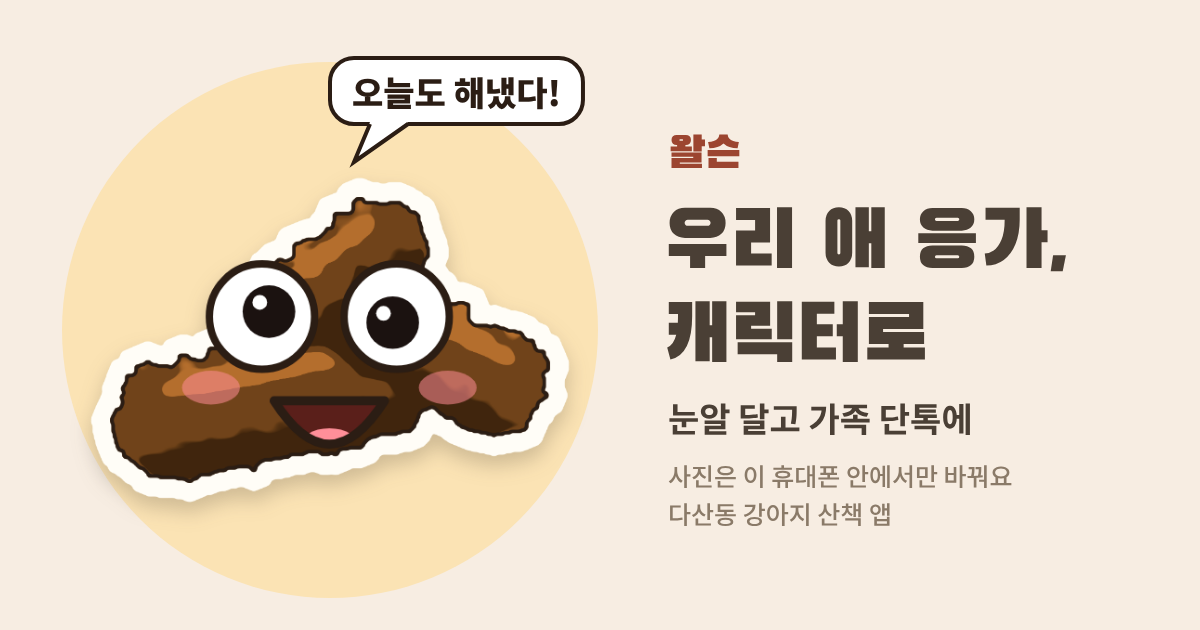
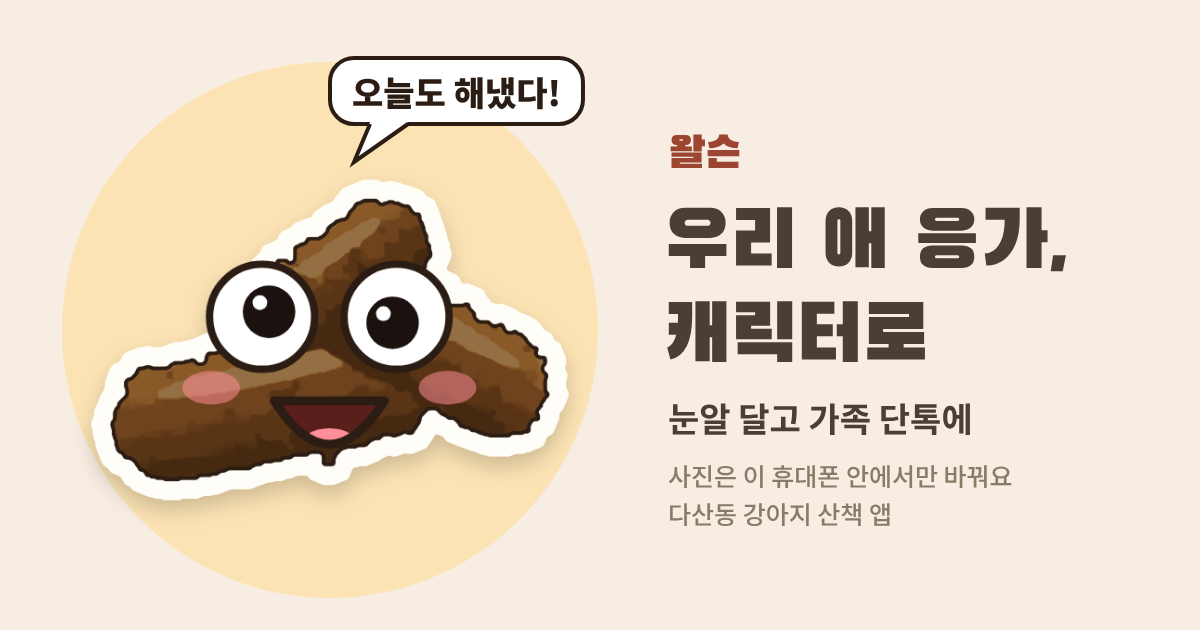
응가 캐릭터: 색을 사진 그대로 따라 그리기 — 응가 안의 Lab 색 묶음(최대 5색)으로 칠함
- 평균색 하나 + 명암 세 단계(밝기 제한) 대신, 응가 안에서 뽑은 색 묶음을 그 자리 색 그대로 칠함
  (채도만 6%, 밝기는 그대로). 묶음 경계는 섞어서 매끈하게, 색이 많이 다른 곳에만 가는 선
- 응가 본체 = 가운데에 가장 많은 색, 나머지는 바닥보다 응가 색에 가까우면 응가 — 빨간 줄만 남고 갈색 본체를 버리던 것 고침
- 뭉개기 6·4·2 → 4·3·1(가는 줄이 덜 넓어짐), 지어낸 사진 7가지로 색 차이 ΔE 0.5~8.8
- 카톡 미리보기 그림 다시 만들고 ?v=2, 기획 문서·PROJECT_CONTEXT 반영

Claude-Session: https://claude.ai/code/session_01D364GF868k3HTded8WiX4b

diff --git a/poop-toon.html b/poop-toon.html
@@ -12,7 +12,7 @@
 <meta property="og:title" content="왈슨 · 우리 애 응가 캐릭터 만들기">
 <meta property="og:description" content="응가 사진에 눈알과 입을 달아 가족 단톡에. 사진은 이 휴대폰 안에서만 바꿔요.">
 <meta property="og:url" content="https://johnsongarage.co.kr/walson/poop-toon.html">
-<meta property="og:image" content="https://johnsongarage.co.kr/walson/og/poop-toon-og.png?v=1">
+<meta property="og:image" content="https://johnsongarage.co.kr/walson/og/poop-toon-og.png?v=2">
 <meta property="og:image:width" content="1200">
 <meta property="og:image:height" content="630">
 <meta property="og:image:alt" content="눈알과 입이 달린 응가 그림 — 왈슨 응가 캐릭터">
@@ -27,8 +27,10 @@
      → Claude 검토 → "응 시험 페이지부터 만들어줘"). 앱과 따로 있는 시험용 — 견맘 몇 명이 실제로 가족방에 보내는지 보려고.
      11/13 응가 일기 원칙(POOP_DIARY.md)을 지킨다: 사진은 남기지 않는다(그림만), 산책 중엔 휴대폰 기본 카메라로 한 장만,
      점수는 앱이 매기지 않는다(표정·상태는 보호자가 고름), 위치는 쓰지 않는다.
-     그림으로 바꾸기는 이 휴대폰 안에서만 한다 — 생성 AI·서버 없음. 붓칠처럼 평평하게(쿠와하라 필터) → 색 몇 개로 줄이기(k-평균)
-     → 굵은 테두리, 배경은 동그라미 가장자리에 많은 색을 배경으로 보고 지워 스티커처럼(못 나누면 동그란 스티커로).
+     그림으로 바꾸기는 이 휴대폰 안에서만 한다 — 생성 AI·서버 없음. 목표(11/16 가르시아): 응가 모양대로, 색도 사진 그대로.
+     붓칠처럼 평평하게(쿠와하라 필터) → 바닥/응가 나누기(가장자리에 많은 색 = 바닥, 가운데에 가장 많은 색 = 응가 본체, 나머지는 색이 가까운 쪽)
+     → 응가 안의 색을 Lab 좌표에서 최대 5묶음으로 뽑아 그 색 그대로 칠함(빨간 줄·흰 점액·노란·검은 변도 남음) → 굵은 테두리 + 흰 스티커 테두리
+     (못 나누면 동그란 스티커로 바닥까지 그림으로).
      통계: 화면 열기(page_view)와 보내기 횟수(share_click what=poop_toon / 내려받기 poop_toon_save)만 — 사진·그림은 보내지 않는다. */
   :root {
     --bg: #f7ede2; --panel: #fffaf3; --panel-border: #e6d6c1;
@@ -393,42 +395,103 @@
   });
 
   // ════════ 그림으로 바꾸기(이 휴대폰 안에서만) ════════
+  // 목표(11/16 가르시아 "똥의 모양대로 그림이 생성되고 색깔도 따라 만들어지는 걸 원해"):
+  // 모양은 사진에서 응가만 떼어 낸 그대로, 색은 응가 안에서 뽑은 색 묶음(최대 5색, 사진 색 그대로)으로 칠한다.
+  // 빨간 줄·흰 점액·노란 부분처럼 다른 색이 섞여 있으면 그 색도 남는다(건강 기록에서 색이 중요해서).
   var art0 = {};   // 배경 나누기가 색을 비교할 때 쓰는 팔레트
+  // 뭉개는 정도: 쿠와하라 두 번의 반경과 색 칸을 한 번 더 뭉개는 반경(작업 픽셀). 크면 매끈하지만 가는 줄이 넓어진다
+  // 11/16 색 따라 그리기 때 6·4·2 → 4·3·1로 줄임: 빨간 줄이 사진보다 1.6배 두꺼워지던 것이 1.4배로, 흰 점액 비율은 사진과 같게(16.0% / 16.1%)
+  var SMOOTH = { k1: 4, k2: 3, blur: 1 };
   function toonify(rgba) {
     var W = WORK, N = W * W;
     // ① 붓칠처럼 평평하게: 쿠와하라 필터 두 번(가장자리는 살리고 질감은 지운다)
     var rgb = new Float32Array(N * 3);
     for (var p = 0; p < N; p++) { rgb[p * 3] = rgba[p * 4]; rgb[p * 3 + 1] = rgba[p * 4 + 1]; rgb[p * 3 + 2] = rgba[p * 4 + 2]; }
-    rgb = kuwahara(rgb, W, W, 6);
-    rgb = kuwahara(rgb, W, W, 4);
-    // ② 색 몇 개로 줄이기
+    var sm = window.__toonSmooth || SMOOTH;   // (시험에서만 바꿔 본다)
+    rgb = kuwahara(rgb, W, W, sm.k1);
+    rgb = kuwahara(rgb, W, W, sm.k2);
+    // ② 바닥과 응가를 나누려고 색 여섯 묶음(동그라미 안)
     var K = 6, centers = kmeans(rgb, W, K);
     var labels = new Uint8Array(N);
     for (p = 0; p < N; p++) labels[p] = nearest(centers, K, rgb[p * 3], rgb[p * 3 + 1], rgb[p * 3 + 2]);
     labels = modeFilter(modeFilter(labels, W, W, K), W, W, K);
     var palette = [];
-    for (var k = 0; k < K; k++) palette.push(cutify(centers[k * 3], centers[k * 3 + 1], centers[k * 3 + 2]));
-    // ③ 배경 나누기 — 동그라미 가장자리에 많은 색 = 바닥
+    for (var k = 0; k < K; k++) palette.push([centers[k * 3], centers[k * 3 + 1], centers[k * 3 + 2]]);
     art0.palette = palette;
+    // ③ 배경 나누기 — 동그라미 가장자리에 많은 색 = 바닥
     var cut = cutBackground(labels, W, K);
-    var res = { W: W, labels: labels, palette: palette, K: K, mask: cut.mask, cutOk: cut.ok, box: cut.box };
-    if (cut.ok) celShade(res, rgb);
+    // ④ 칠할 색: 부드럽게 한 사진 색을 Lab(사람 눈에 고르게 보이는 색 좌표)으로 바꿔 두고, 응가 안의 색 묶음을 뽑는다
+    var labF = labField(rgb, W, sm.blur);
+    var res = { W: W, labels: labels, palette: palette, K: K, mask: cut.mask, cutOk: cut.ok, box: cut.box, labF: labF, allPal: null };
+    if (cut.ok) res.fgPal = labPalette(labF, W, cut.mask, 5);
     return res;
   }
-  // ④ 배경을 지운 응가는 명암 세 단계로 다시 칠한다(그린 그림처럼) — 색은 응가의 평균색, 밝고 어두운 자리는 사진 그대로
-  function celShade(res, rgb) {
-    var W = res.W, N = W * W, m = res.mask, n = 0, sr = 0, sg = 0, sb = 0, lums = [], lum = new Float32Array(N), p;
-    for (p = 0; p < N; p++) {
-      var l = 0.299 * rgb[p * 3] + 0.587 * rgb[p * 3 + 1] + 0.114 * rgb[p * 3 + 2]; lum[p] = l;
-      if (m[p]) { n++; sr += rgb[p * 3]; sg += rgb[p * 3 + 1]; sb += rgb[p * 3 + 2]; if (!(p % 3)) lums.push(l); }
+  // ── 색 좌표(sRGB ↔ Lab, D65) ──
+  var LIN = new Float32Array(256);
+  (function () { for (var i = 0; i < 256; i++) { var c = i / 255; LIN[i] = c <= 0.04045 ? c / 12.92 : Math.pow((c + 0.055) / 1.055, 2.4); } })();
+  function labf(t) { return t > 0.008856 ? Math.cbrt(t) : 7.787 * t + 16 / 116; }
+  function toLab(r, g, b, out, o) {
+    var R = LIN[r < 0 ? 0 : r > 255 ? 255 : Math.round(r)], G = LIN[g < 0 ? 0 : g > 255 ? 255 : Math.round(g)], B = LIN[b < 0 ? 0 : b > 255 ? 255 : Math.round(b)];
+    var fx = labf((R * 0.4124 + G * 0.3576 + B * 0.1805) / 0.95047), fy = labf(R * 0.2126 + G * 0.7152 + B * 0.0722), fz = labf((R * 0.0193 + G * 0.1192 + B * 0.9505) / 1.08883);
+    out[o] = 116 * fy - 16; out[o + 1] = 500 * (fx - fy); out[o + 2] = 200 * (fy - fz);
+  }
+  function fromLab(L, a, b) {
+    var fy = (L + 16) / 116, fx = fy + a / 500, fz = fy - b / 200;
+    function fi(t) { var t3 = t * t * t; return t3 > 0.008856 ? t3 : (t - 16 / 116) / 7.787; }
+    var X = fi(fx) * 0.95047, Y = fi(fy), Z = fi(fz) * 1.08883;
+    function g(c) { c = c <= 0.0031308 ? 12.92 * c : 1.055 * Math.pow(Math.max(0, c), 1 / 2.4) - 0.055; return Math.max(0, Math.min(255, c * 255)); }
+    return [g(X * 3.2406 - Y * 1.5372 - Z * 0.4986), g(-X * 0.9689 + Y * 1.8758 + Z * 0.0415), g(X * 0.0557 - Y * 0.2040 + Z * 1.0570)];
+  }
+  function de2(a, b) { var x = a[0] - b[0], y = a[1] - b[1], z = a[2] - b[2]; return x * x + y * y + z * z; }
+  // 쿠와하라 결과를 한 번 더 살짝 뭉개(색 경계가 매끈한 곡선이 되게) Lab으로 바꾼 칸
+  function labField(rgb, W, blur) {
+    var N = W * W, ch = [new Float32Array(N), new Float32Array(N), new Float32Array(N)], out = new Float32Array(N * 3), p, c;
+    for (p = 0; p < N; p++) for (c = 0; c < 3; c++) ch[c][p] = rgb[p * 3 + c];
+    if (blur > 0) for (c = 0; c < 3; c++) boxBlur(ch[c], W, blur);
+    for (p = 0; p < N; p++) toLab(ch[0][p], ch[1][p], ch[2][p], out, p * 3);
+    return out;
+  }
+  // 응가(mask) 또는 동그라미 안의 색을 최대 K묶음으로 — 사진 색 그대로. 아주 가까운 색(ΔE 7 안쪽)은 하나로 합친다
+  function labPalette(labF, W, mask, K) {
+    var N = W * W, R0 = W / 2, pts = [], p, k, s;
+    for (p = 0; p < N; p += 2) {
+      if (mask ? mask[p] : Math.hypot((p % W) + 0.5 - R0, ((p / W) | 0) + 0.5 - R0) < R0 * 0.97) pts.push(p);
     }
-    lums.sort(function (a, b) { return a - b; });
-    var t1 = lums[Math.floor(lums.length * 0.3)], t2 = lums[Math.floor(lums.length * 0.84)];
-    var hsl = toHsl(sr / n, sg / n, sb / n), h = hsl[0], sat = Math.max(0.38, Math.min(0.8, hsl[1] * 1.25)), lt = Math.max(0.27, Math.min(0.5, hsl[2]));
-    res.cel = [fromHsl(h, Math.min(1, sat * 1.05), Math.max(0.13, lt - 0.12)), fromHsl(h, sat, lt), fromHsl(h, sat * 0.95, Math.min(0.76, lt + 0.17))];
-    // 밝기를 한 번 더 뭉개 두고, 그릴 때 부드럽게 읽어 경계가 매끈한 곡선이 되게 한다
-    boxBlur(lum, W, 3); boxBlur(lum, W, 3);
-    res.lum = lum; res.t1 = t1; res.t2 = t2;
+    if (pts.length > 16000) { var keep = [], st = pts.length / 16000; for (var q = 0; q < pts.length; q += st) keep.push(pts[Math.floor(q)]); pts = keep; }
+    var S = pts.length;
+    if (!S) return [{ lab: [50, 0, 0], rgb: [119, 119, 119], n: 1 }];
+    var order = pts.slice().sort(function (x, y) { return labF[x * 3] - labF[y * 3]; });   // 밝기 순서로 고르게 시작(같은 사진이면 늘 같은 결과)
+    var c = [];
+    for (k = 0; k < K; k++) { var z = order[Math.floor((k + 0.5) / K * S)]; c.push([labF[z * 3], labF[z * 3 + 1], labF[z * 3 + 2]]); }
+    var cnt = [];
+    for (var it = 0; it < 12; it++) {
+      var sum = c.map(function () { return [0, 0, 0]; }); cnt = c.map(function () { return 0; });
+      for (s = 0; s < S; s++) {
+        var o = pts[s] * 3, L = labF[o], A = labF[o + 1], B = labF[o + 2], bi = 0, bd = Infinity;
+        for (k = 0; k < c.length; k++) { var dl = L - c[k][0], da = A - c[k][1], db = B - c[k][2], d = dl * dl + da * da + db * db; if (d < bd) { bd = d; bi = k; } }
+        sum[bi][0] += L; sum[bi][1] += A; sum[bi][2] += B; cnt[bi]++;
+      }
+      for (k = 0; k < c.length; k++) if (cnt[k]) c[k] = [sum[k][0] / cnt[k], sum[k][1] / cnt[k], sum[k][2] / cnt[k]];
+    }
+    var pal = [];
+    for (k = 0; k < c.length; k++) if (cnt[k]) pal.push({ lab: c[k], n: cnt[k] });
+    for (;;) {   // 아주 가까운 두 색 합치기
+      var mi = -1, mj = -1, best = 49;
+      for (var i = 0; i < pal.length; i++) for (var j = i + 1; j < pal.length; j++) { var e = de2(pal[i].lab, pal[j].lab); if (e < best) { best = e; mi = i; mj = j; } }
+      if (mi < 0) break;
+      var P1 = pal[mi], P2 = pal[mj], n = P1.n + P2.n;
+      P1.lab = [(P1.lab[0] * P1.n + P2.lab[0] * P2.n) / n, (P1.lab[1] * P1.n + P2.lab[1] * P2.n) / n, (P1.lab[2] * P1.n + P2.lab[2] * P2.n) / n]; P1.n = n;
+      pal.splice(mj, 1);
+    }
+    // 그릴 색: 사진 색 그대로 — 채도만 아주 조금(6%) 올려 그림처럼 또렷하게. 밝기는 건드리지 않는다
+    pal.forEach(function (e) { e.rgb = fromLab(e.lab[0], e.lab[1] * 1.06, e.lab[2] * 1.06); });
+    pal.sort(function (x, y) { return y.n - x.n; });   // 많은 색부터(0번 = 응가의 주된 색)
+    return pal;
+  }
+  function nearestPal(pal, L, A, B) {
+    var bi = 0, bd = Infinity;
+    for (var k = 0; k < pal.length; k++) { var pl = pal[k].lab, dl = L - pl[0], da = A - pl[1], db = B - pl[2], d = dl * dl + da * da + db * db; if (d < bd) { bd = d; bi = k; } }
+    return bi;
   }
   function boxBlur(f, W, r) {
     var t = new Float32Array(f.length), x, y, k, acc, n;
@@ -452,21 +515,6 @@
         if (d < W) { acc += t[d * W + x]; n++; }
       }
     }
-  }
-  function toHsl(r, g, b) {
-    r /= 255; g /= 255; b /= 255;
-    var mx = Math.max(r, g, b), mn = Math.min(r, g, b), l = (mx + mn) / 2, h = 0, s = 0, d = mx - mn;
-    if (d > 0) {
-      s = l > 0.5 ? d / (2 - mx - mn) : d / (mx + mn);
-      h = (mx === r ? (g - b) / d + (g < b ? 6 : 0) : mx === g ? (b - r) / d + 2 : (r - g) / d + 4) / 6;
-    }
-    return [h, s, l];
-  }
-  function fromHsl(h, s, l) {
-    if (s === 0) return [l * 255, l * 255, l * 255];
-    function f(t) { var q = l < 0.5 ? l * (1 + s) : l + s - l * s, p = 2 * l - q; if (t < 0) t += 1; if (t > 1) t -= 1;
-      return t < 1 / 6 ? p + (q - p) * 6 * t : t < 0.5 ? q : t < 2 / 3 ? p + (q - p) * (2 / 3 - t) * 6 : p; }
-    return [f(h + 1 / 3) * 255, f(h) * 255, f(h - 1 / 3) * 255];
   }
 
   // 쿠와하라: 네 귀퉁이 칸 중 밝기가 가장 고른 칸의 평균색. 합계표(적분 영상)로 빠르게
@@ -555,22 +603,6 @@
     }
     return out;
   }
-  // 색을 조금 더 또렷하고 따뜻하게(만화 느낌)
-  function cutify(r, g, b) {
-    r /= 255; g /= 255; b /= 255;
-    var mx = Math.max(r, g, b), mn = Math.min(r, g, b), l = (mx + mn) / 2, h = 0, s = 0, d = mx - mn;
-    if (d > 0) {
-      s = l > 0.5 ? d / (2 - mx - mn) : d / (mx + mn);
-      h = mx === r ? (g - b) / d + (g < b ? 6 : 0) : mx === g ? (b - r) / d + 2 : (r - g) / d + 4;
-      h /= 6;
-    }
-    s = Math.min(1, s * 1.22 + 0.05);
-    l = Math.min(0.92, l * 1.04 + 0.03);
-    function f(t) { var q = l < 0.5 ? l * (1 + s) : l + s - l * s, p = 2 * l - q; if (t < 0) t += 1; if (t > 1) t -= 1;
-      return t < 1 / 6 ? p + (q - p) * 6 * t : t < 0.5 ? q : t < 2 / 3 ? p + (q - p) * (2 / 3 - t) * 6 : p; }
-    return s === 0 ? [l * 255, l * 255, l * 255] : [f(h + 1 / 3) * 255, f(h) * 255, f(h - 1 / 3) * 255];
-  }
-
   // 배경 나누기. 실패하면 ok=false(동그란 스티커로 간다)
   function cutBackground(lab, W, K) {
     var R0 = W / 2, ring = new Float64Array(K), center = new Float64Array(K), ringN = 0, centerN = 0;
@@ -590,19 +622,25 @@
       return 0.25 * dy * dy + du * du + dv * dv;
     }
     function toBg(k) { var d = Infinity; for (var j = 0; j < K; j++) if (isBg[j]) d = Math.min(d, cd(pal[k], pal[j])); return d; }
-    // 응가 색 = 가운데에 있고 바닥과 색깔이 가장 다른 것
-    var bestScore = 0;
-    for (k = 0; k < K; k++) {
-      if (isBg[k] || center[k] / centerN < 0.08) continue;
-      var sc = center[k] / centerN * Math.sqrt(toBg(k));
-      if (sc > bestScore) { bestScore = sc; fgSeed = k; }
+    // 응가 본체 색 = 가운데에 가장 많고, 바닥과 색이 충분히 다른 것(바닥과 너무 비슷하면 그다음)
+    var order = [];
+    for (k = 0; k < K; k++) if (!isBg[k] && center[k] / centerN >= 0.08) order.push(k);
+    order.sort(function (x, y) { return center[y] - center[x]; });
+    for (j = 0; j < order.length; j++) if (toBg(order[j]) >= 600) { fgSeed = order[j]; break; }
+    if (fgSeed < 0) return { ok: false, mask: null };   // 바닥과 색이 너무 비슷(흙바닥 등) — 동그랗게 간다
+    // 나머지 색: 바닥보다 응가 쪽(이미 응가로 본 색 중 가장 가까운 것)에 더 가까우면 응가 — 빨간 줄·흰 점액·밝은 부분이 남고,
+    // 그림자 진 잔디처럼 밝기만 다른 바닥은 바닥으로 간다
+    var isFg = []; isFg[fgSeed] = true;
+    for (var grow = true; grow;) {
+      grow = false;
+      for (k = 0; k < K; k++) {
+        if (isBg[k] || isFg[k]) continue;
+        var toFg = Infinity;
+        for (j = 0; j < K; j++) if (isFg[j]) toFg = Math.min(toFg, cd(pal[k], pal[j]));
+        if (toFg < toBg(k)) { isFg[k] = true; grow = true; }
+      }
     }
-    if (fgSeed < 0 || toBg(fgSeed) < 600) return { ok: false, mask: null };   // 바닥과 색이 너무 비슷(흙바닥 등) — 동그랗게 간다
-    // 나머지 색은 바닥과 응가 중 색깔이 더 가까운 쪽으로
-    for (k = 0; k < K; k++) {
-      if (isBg[k] || k === fgSeed) continue;
-      if (toBg(k) < cd(pal[k], pal[fgSeed])) isBg[k] = true;
-    }
+    for (k = 0; k < K; k++) if (!isFg[k]) isBg[k] = true;
     var N = W * W, m = new Uint8Array(N);
     for (y = 0; y < W; y++) for (x = 0; x < W; x++) {
       var i = y * W + x;
@@ -700,7 +738,10 @@
     var scale = Math.min(860 / ww, 800 / wh, 2.4), OW = Math.round(ww * scale), OH = Math.round(wh * scale), cv = document.createElement('canvas');
     cv.width = OW; cv.height = OH;
     var ctx = cv.getContext('2d'), img = ctx.createImageData(OW, OH), out = img.data;
-    var line = [43, 29, 20], pal = art.palette, lab = art.labels, cel = (opt.bg === 'cut' && art.cutOk) ? art.cel : null;
+    var line = [43, 29, 20], cutMode = opt.bg === 'cut' && art.cutOk;
+    // 칠할 색 묶음: 배경을 지웠으면 응가 안의 색, 동그랗게면 동그라미 안 전체의 색(처음 쓸 때 만든다)
+    var pal = cutMode ? art.fgPal : (art.allPal || (art.allPal = labPalette(art.labF, W, null, 7)));
+    var edgeF = edgeField(pal, W, cutMode ? art.mask : null), lf = art.labF, tl = [0, 0, 0];
     for (var oy = 0; oy < OH; oy++) {
       var v = wy0 + (oy + 0.5) / scale - 0.5;
       for (var ox = 0; ox < OW; ox++) {
@@ -710,22 +751,19 @@
         var rr = 255, gg = 253, bb = 247, aa = aw;
         var af = clamp01(0.5 - s * scale);
         if (af > 0) {
-          var lx = Math.round(u - P), ly = Math.round(v - P);
-          if (lx < 0) lx = 0; if (ly < 0) ly = 0; if (lx > W - 1) lx = W - 1; if (ly > W - 1) ly = W - 1;
-          var li = lab[ly * W + lx], col = pal[li], edge = 0;
-          if (cel) {
-            // 명암 세 단계 — 밝기 경계는 1.6 밝기만큼 섞어 계단 없이
-            var L = sample(art.lum, W, u - P, v - P), a1 = clamp01((L - art.t1) / 1.6 + 0.5), a2 = clamp01((L - art.t2) / 1.6 + 0.5);
-            var c0 = cel[0], c1 = cel[1], c2 = cel[2];
-            col = [c0[0] + (c1[0] - c0[0]) * a1 + (c2[0] - c1[0]) * a2, c0[1] + (c1[1] - c0[1]) * a1 + (c2[1] - c1[1]) * a2, c0[2] + (c1[2] - c0[2]) * a1 + (c2[2] - c1[2]) * a2];
-          } else {
-            // 색이 바뀌는 경계에 가는 선(동그란 스티커 — 바닥까지 그림으로)
-            var lx2 = Math.min(W - 1, lx + 1), ly2 = Math.min(W - 1, ly + 1);
-            if (lab[ly * W + lx2] !== li && contrast(col, pal[lab[ly * W + lx2]])) edge = 1;
-            else if (lab[ly2 * W + lx] !== li && contrast(col, pal[lab[ly2 * W + lx]])) edge = 1;
+          // 사진 색을 그 자리에서 읽어 가장 가까운 두 묶음 색을 찾고, 경계는 살짝 섞어 계단 없이
+          sample3(lf, W, u - P, v - P, tl);
+          var i1 = 0, i2 = 0, d1 = Infinity, d2 = Infinity;
+          for (var k = 0; k < pal.length; k++) {
+            var pl = pal[k].lab, dl = tl[0] - pl[0], da = tl[1] - pl[1], db = tl[2] - pl[2], d = dl * dl + da * da + db * db;
+            if (d < d1) { d2 = d1; i2 = i1; d1 = d; i1 = k; } else if (d < d2) { d2 = d; i2 = k; }
           }
-          var cr = col[0], cg = col[1], cb = col[2];
-          if (edge) { cr = cr * 0.25 + line[0] * 0.75; cg = cg * 0.25 + line[1] * 0.75; cb = cb * 0.25 + line[2] * 0.75; }
+          var w1 = pal.length > 1 ? 0.5 + 0.5 * clamp01((Math.sqrt(d2) - Math.sqrt(d1)) / 2.5) : 1;
+          var c1 = pal[i1].rgb, c2 = pal[i2].rgb;
+          var cr = c1[0] * w1 + c2[0] * (1 - w1), cg = c1[1] * w1 + c2[1] * (1 - w1), cb = c1[2] * w1 + c2[2] * (1 - w1);
+          // 색이 많이 다른 묶음 사이에만 가는 선(빨간 줄·흰 점액 같은 다른 색의 모양이 보이게)
+          var ea = clamp01((sample(edgeF, W, u - P, v - P) - 0.24) * 2.6) * 0.8;
+          if (ea > 0) { cr = cr * (1 - ea) + line[0] * ea; cg = cg * (1 - ea) + line[1] * ea; cb = cb * (1 - ea) + line[2] * ea; }
           rr = rr * (1 - af) + cr * af; gg = gg * (1 - af) + cg * af; bb = bb * (1 - af) + cb * af;
           aa = Math.max(aa, af);
         }
@@ -740,7 +778,25 @@
     var cx = CARD_W / 2 - OW / 2, cy = SY + STICKER / 2 - OH / 2;
     sticker = { canvas: cv, scale: scale, x: cx, y: cy, ox: cx - wx0 * scale, oy: cy - wy0 * scale };
   }
-  function contrast(a, b) { var d = Math.abs((0.299 * a[0] + 0.587 * a[1] + 0.114 * a[2]) - (0.299 * b[0] + 0.587 * b[1] + 0.114 * b[2])); return d > 22; }
+  // 세 칸(Lab)짜리 칸을 부드럽게 읽기
+  function sample3(f, W, u, v, out) {
+    if (u < 0) u = 0; if (v < 0) v = 0; if (u > W - 1.001) u = W - 1.001; if (v > W - 1.001) v = W - 1.001;
+    var x = u | 0, y = v | 0, fx = u - x, fy = v - y, i = (y * W + x) * 3, j = i + W * 3;
+    for (var c = 0; c < 3; c++) out[c] = (f[i + c] * (1 - fx) + f[i + 3 + c] * fx) * (1 - fy) + (f[j + c] * (1 - fx) + f[j + 3 + c] * fx) * fy;
+  }
+  // 색 묶음 경계 지도: 옆 칸과 묶음이 다르고 두 색이 많이 다르면(ΔE 18 넘게) 1 — 살짝 뭉개 부드럽게 읽는다
+  function edgeField(pal, W, mask) {
+    var N = W * W, lab = new Uint8Array(N), lf = art.labF, e = new Float32Array(N), p;
+    for (p = 0; p < N; p++) lab[p] = nearestPal(pal, lf[p * 3], lf[p * 3 + 1], lf[p * 3 + 2]);
+    for (var y = 0; y < W - 1; y++) for (var x = 0; x < W - 1; x++) {
+      p = y * W + x;
+      if (mask && !mask[p]) continue;
+      var a = lab[p], r = lab[p + 1], dn = lab[p + W];
+      if ((a !== r && de2(pal[a].lab, pal[r].lab) > 324) || (a !== dn && de2(pal[a].lab, pal[dn].lab) > 324)) e[p] = 1;
+    }
+    boxBlur(e, W, 1);
+    return e;
+  }
   function clamp01(t) { return t < 0 ? 0 : t > 1 ? 1 : t; }
   function sample(f, W, u, v) {
     if (u < 0) u = 0; if (v < 0) v = 0; if (u > W - 1.001) u = W - 1.001; if (v > W - 1.001) v = W - 1.001;
@@ -833,11 +889,11 @@
     }
     return { cx: cx, top: cy - Re * 1.8, right: cx + ex + Re };
   }
-  // 눈꺼풀 색 = 얼굴 자리의 그림 색
+  // 눈꺼풀 색 = 얼굴 자리의 그림 색(조금 어둡게)
   function sampleColor() {
-    var W = art.W, x = Math.round(face.x - PAD), y = Math.round(face.y - PAD);
-    x = Math.max(0, Math.min(W - 1, x)); y = Math.max(0, Math.min(W - 1, y));
-    var c = (opt.bg === 'cut' && art.cutOk && art.cel) ? art.cel[1] : art.palette[art.labels[y * W + x]];
+    var pal = (opt.bg === 'cut' && art.cutOk) ? art.fgPal : art.allPal, tl = [0, 0, 0];
+    var c = [120, 80, 40];
+    if (pal && pal.length) { sample3(art.labF, art.W, face.x - PAD, face.y - PAD, tl); c = pal[nearestPal(pal, tl[0], tl[1], tl[2])].rgb; }
     return 'rgb(' + Math.round(c[0] * 0.85) + ',' + Math.round(c[1] * 0.85) + ',' + Math.round(c[2] * 0.85) + ')';
   }
 
@@ -1067,7 +1123,20 @@
   fontsReady.then(function () { if (art) render(); });
 
   // 시험용(자동 시험에서 쓰는 손잡이 — 화면에는 영향 없음)
-  window.__toon = { state: function () { return { opt: opt, face: face, cutOk: art && art.cutOk, ms: art && art.ms, cel: art && art.cel, box: art && art.box, st: sticker && { ox: sticker.ox, oy: sticker.oy, scale: sticker.scale, w: sticker.canvas.width, h: sticker.canvas.height } }; } };
+  // 시험용: 그림에 칠한 응가 색의 가운데값(Lab)과 색이 다른 부분의 비율 — 응가 칸마다 칠한 색 묶음으로 잰다(흰 테두리·선 제외)
+  function stickerStats() {
+    var cut = opt.bg === 'cut' && art.cutOk, pal = cut ? art.fgPal : art.allPal, W = art.W, R0 = W / 2, Ls = [], As = [], Bs = [], red = 0, light = 0, n = 0, t = [0, 0, 0];
+    for (var p = 0; p < W * W; p += 3) {
+      if (cut ? !art.mask[p] : Math.hypot((p % W) + 0.5 - R0, ((p / W) | 0) + 0.5 - R0) > R0 * 0.97) continue;
+      var e = pal[nearestPal(pal, art.labF[p * 3], art.labF[p * 3 + 1], art.labF[p * 3 + 2])];
+      toLab(e.rgb[0], e.rgb[1], e.rgb[2], t, 0); Ls.push(t[0]); As.push(t[1]); Bs.push(t[2]); n++;
+      if (t[1] > 35 && t[0] > 25 && t[1] > t[2] * 0.9) red++;
+      if (t[0] > 82 && Math.hypot(t[1], t[2]) < 16) light++;
+    }
+    function med(a) { a.sort(function (x, y) { return x - y; }); return a.length ? a[a.length >> 1] : 0; }
+    return { lab: [med(Ls), med(As), med(Bs)].map(function (x) { return Math.round(x * 10) / 10; }), n: n, red: n ? red / n : 0, light: n ? light / n : 0 };
+  }
+  window.__toon = { stats: function () { return stickerStats(); }, state: function () { return { opt: opt, face: face, cutOk: art && art.cutOk, ms: art && art.ms, pal: art && (art.fgPal || art.allPal || []).map(function (e) { return { lab: e.lab.map(Math.round), rgb: e.rgb.map(Math.round), n: e.n }; }), box: art && art.box, st: sticker && { ox: sticker.ox, oy: sticker.oy, scale: sticker.scale, w: sticker.canvas.width, h: sticker.canvas.height } }; } };
 })();
 </script>
 </body>

diff --git a/POOP_DIARY.md b/POOP_DIARY.md
@@ -143,7 +143,14 @@
   - 생성 AI·서버를 쓰지 않는다. 휴대폰 안에서 그림체로 바꾼다 — 11/13 2번의 "미리 그린 그림 7종 조합" 대신 우리 애 응가의 실제 모양을 살린다.
   - 점수는 앱이 매기지 않는다. 표정(뿌듯·메롱·깜짝·걱정·나른)과 "평소대로 / 평소와 달랐어요"는 보호자가 고른다. "건강 상태를 판단하지 않아요"라고 적는다.
   - 위치는 쓰지 않는다(원칙 5). 카드에는 이름·날짜·상태만, 산책 시각·장소는 넣지 않는다.
-- 그림으로 바꾸는 법: 붓칠처럼 평평하게(쿠와하라 두 번) → 색 여섯 개로 줄이기(k-평균) → 동그라미 가장자리에 많은 색 = 바닥, 가운데에 있고 바닥과 색깔이 가장 다른 색 = 응가,
+- **목표(11/16 가르시아 "일단 목표로 하는 기능으로는 똥의 모양대로 그림이 생성되고 색깔도 따라 만들어지는 걸 원해")**: 모양은 사진에서 응가만 떼어 낸 그대로,
+  색은 사진 색 그대로. 처음 판은 평균색 하나에 명암 세 단계·밝기 제한이라 노란·검은 변이 갈색처럼, 빨간 줄·흰 점액은 사라질 수 있었다 → 같은 날 바꿈:
+  응가 안의 색을 Lab(사람 눈에 고르게 보이는 색 좌표)에서 최대 5묶음으로 뽑아 그 색 그대로 칠한다(채도만 6% 올림, 밝기는 그대로).
+  응가 본체 = 가운데에 가장 많은 색, 나머지 색은 바닥보다 응가 쪽 색에 가까우면 응가(빨간 줄을 본체로 착각해 갈색을 버리던 것 고침).
+  뭉개기는 6·4·2 → 4·3·1(가는 줄이 덜 넓어짐). 지어낸 사진 일곱 가지로 원래 색과의 차이 ΔE: 갈색 4.2 · 노란 2.9 · 검은 0.5 · 초록빛 2.5 · 회백색 5.0 ·
+  빨간 줄 8.8(줄 넓이 그림 31.6% / 사진 22.6%) · 흰 점액 2.8(16.0% / 16.1%). ΔE 2~3은 나란히 놓아야 겨우 보이는 차이.
+  남은 한계: 사진에 찍힌 색 그대로라 가로등·플래시처럼 빛 색이 있으면 그 색이 섞인다. 얼굴이 응가 가운데를 가리므로 줄·점액을 보려면 얼굴을 작게 하거나 옮긴다.
+- 그림으로 바꾸는 법(처음 판): 붓칠처럼 평평하게(쿠와하라 두 번) → 색 여섯 개로 줄이기(k-평균) → 동그라미 가장자리에 많은 색 = 바닥, 가운데에 있고 바닥과 색깔이 가장 다른 색 = 응가,
   나머지는 색깔(밝기는 덜 봄)이 가까운 쪽으로(그림자 진 잔디는 바닥) → 부스러기·구멍 정리 → 응가는 평균색 명암 세 단계로 다시 칠하고 굵은 테두리 + 흰 스티커 테두리.
   바닥과 색이 너무 비슷하면(흙바닥 등) 동그란 스티커로 바닥까지 그림으로. 컴퓨터에서 0.2초, 느린 휴대폰 흉내(CPU 4배 느리게)에서 0.7~1.7초.
 - 재는 것: 페이지 열기(page_view)와 보내기(share_click what=poop_toon, 내려받기 poop_toon_save) 횟수. 보낸 그림의 글에 붙는 주소는 ?from=poop_share라 거기서 들어온 사람도 센다.

diff --git a/PROJECT_CONTEXT.md b/PROJECT_CONTEXT.md
@@ -2357,3 +2357,8 @@ hq notes/petwalk-growing-id-card.md).
   컴퓨터 저장 1080×1350 PNG, 아스팔트·흙바닥 사진 올리기, 휴대폰 공유 창(그림 한 장 + 글, 통계는 share_click 하나) — 18개 통과.
   자리를 여러 가지로 잡아도 응가 색이 갈색으로 남는지 8가지 확인. 그림 바꾸기 0.2초(컴퓨터), 느린 휴대폰 흉내(CPU 4배)에서 0.7~1.7초.
   아직: 실제 응가 사진(밤·흙바닥·풀숲·묽은 변), 아이폰 공유 창에서 카톡으로 바로 가는지, 견맘 반응.
+- **색도 사진 그대로(11/16 가르시아 "똥의 모양대로 그림이 생성되고 색깔도 따라 만들어지는 걸 원해")**: 평균색 하나 + 명암 세 단계(밝기 제한) → 응가 안에서 뽑은
+  Lab 색 묶음(최대 5색, 채도만 6% 올림)을 그 자리 색 그대로 칠하고, 묶음 경계는 살짝 섞어 계단 없이, 색이 많이 다른 묶음 사이(ΔE 18 넘게)에만 가는 선.
+  응가 본체는 가운데에 가장 많은 색, 나머지는 바닥보다 응가 쪽에 가까우면 응가로(빨간 줄만 남고 갈색 본체를 버리던 것 고침). 뭉개기 6·4·2 → 4·3·1.
+  지어낸 사진 일곱 가지로 색 차이(ΔE) 0.5~8.8 — 갈색·노란·검은·초록빛·회백색·빨간 줄(넓이 31.6% / 사진 22.6%)·흰 점액(16.0% / 16.1%). 화면 시험 18개도 다시 통과,
+  느린 휴대폰 흉내에서 0.9초. 카톡 미리보기 그림을 새 방식으로 다시 만들고 ?v=2.
